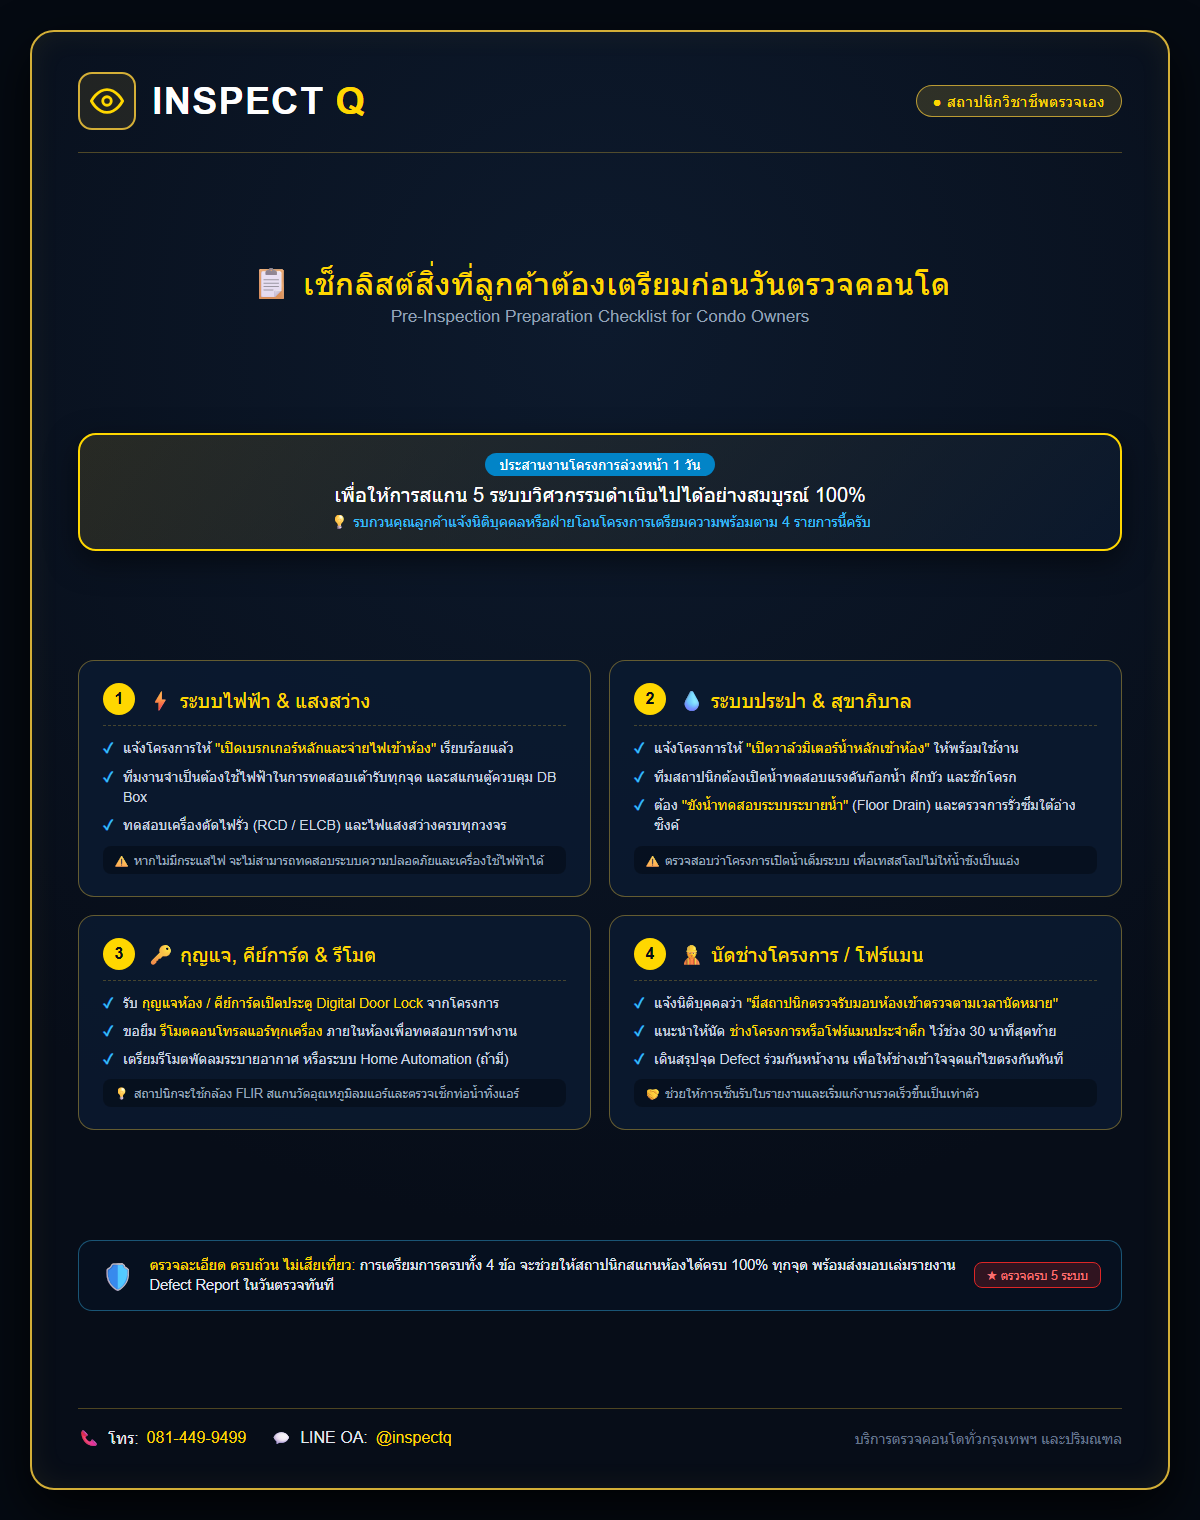
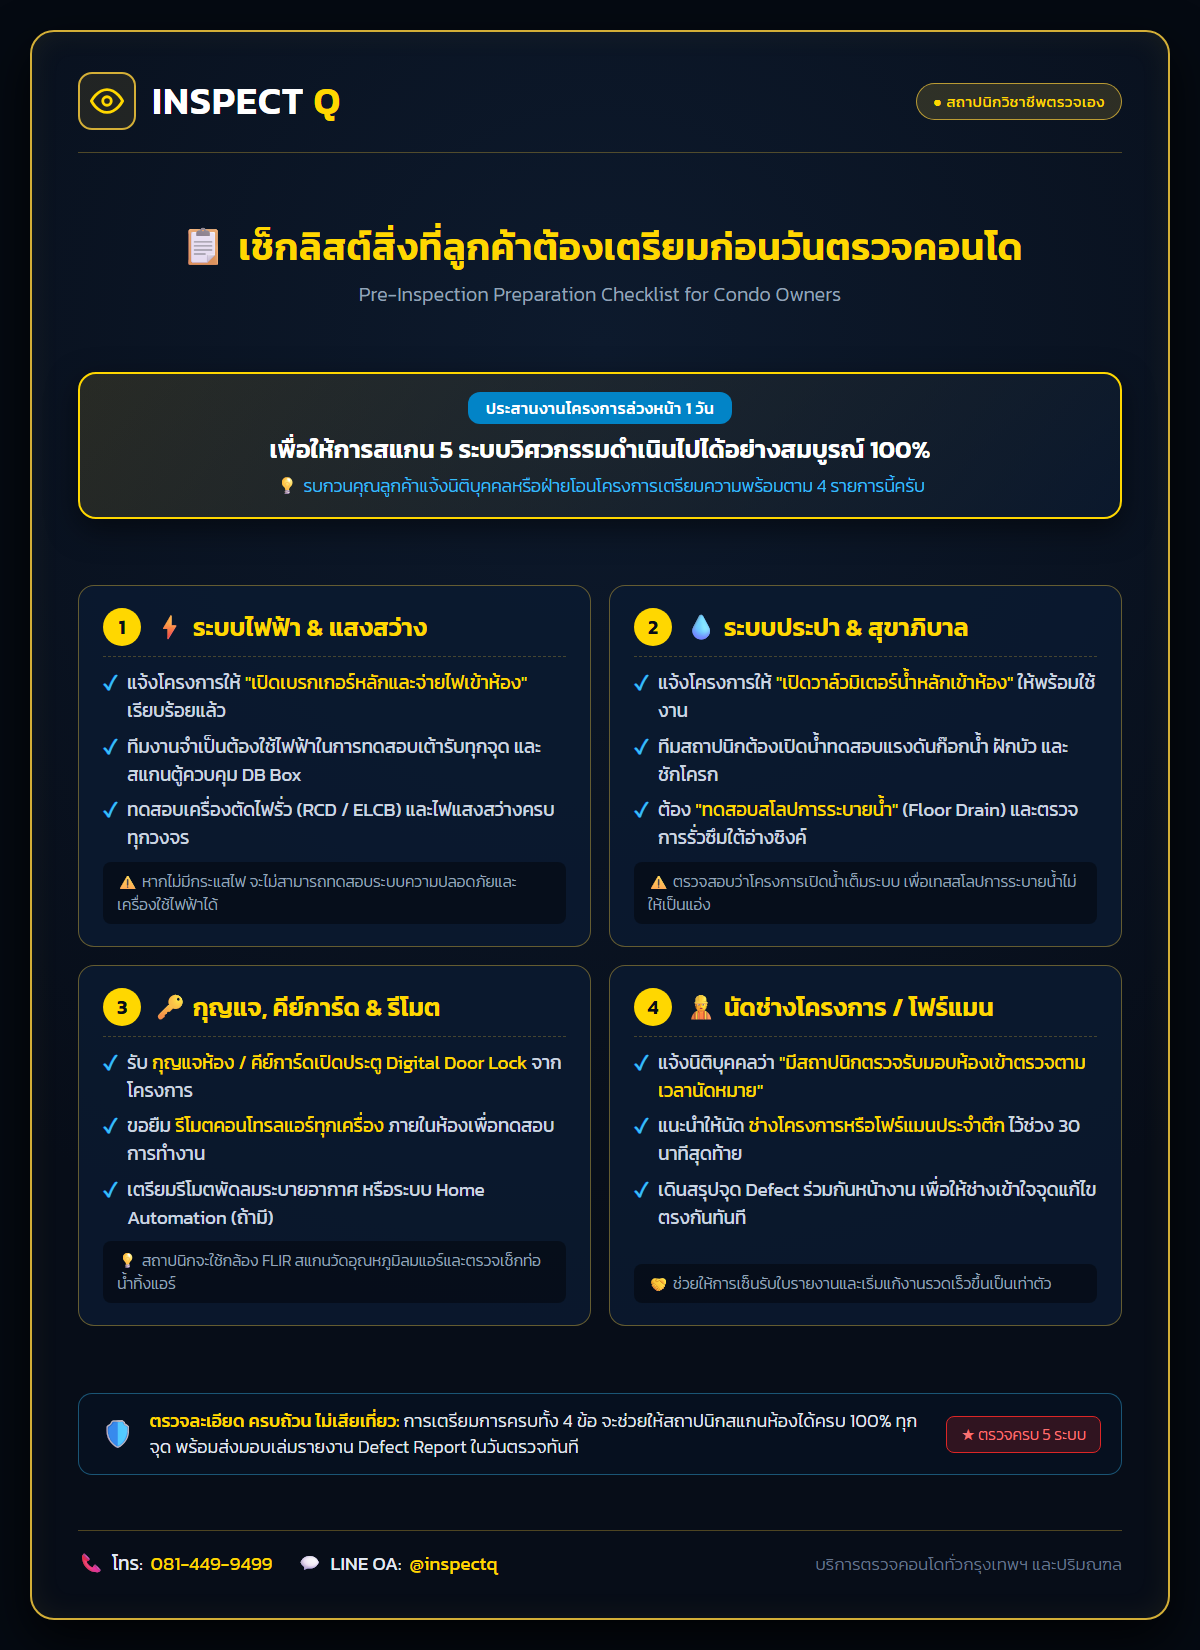
Card 06: remove word khang, increase font size to 18.5px for clear visibility

diff --git a/line.html b/line.html
@@ -376,7 +376,7 @@
 🔍 ตรวจครบ 5 ระบบ 6 โซน:
 • สถาปัตย์: พื้นยวบ/โก่ง, ผนังดิ่ง-ฉาก, ประตู-หน้าต่าง, กระเบื้อง
 • ไฟฟ้า: ตู้ DB, เบรกเกอร์ตัดไฟรั่ว (RCD), สายดินทุกปลั๊ก
-• ประปา: ขังน้ำเทสรั่วใต้ซิงค์, สโลปท่อระบายน้ำไม่ขัง
+• ประปา: เทสรั่วซึมใต้ซิงค์, สโลปท่อระบายน้ำไหลสะดวก
 • เครื่องมือ: เลเซอร์ 3D, สแกนชื้น, Socket Tester
 
 📄 ได้รับ: สรุปจุดด่วนในแชต + เล่มรายงาน PDF คมชัด
@@ -434,7 +434,7 @@
 รบกวนคุณลูกค้าประสานโครงการล่วงหน้า 1–2 วันครับ:
 
 ⚡ 1. ระบบไฟ: แจ้งโครงการเปิดเบรกเกอร์หลักและจ่ายไฟเข้าห้อง (เพื่อเทสปลั๊ก แอร์ แสงสว่าง และตู้ไฟ)
-💧 2. ระบบน้ำ: แจ้งโครงการเปิดมิเตอร์น้ำเข้าห้อง (เพื่อเทสแรงดัน สุขภัณฑ์ และขังน้ำเทสสโลป)
+💧 2. ระบบน้ำ: แจ้งโครงการเปิดมิเตอร์น้ำเข้าห้อง (เพื่อเทสแรงดัน สุขภัณฑ์ และเทสสโลปการระบายน้ำ)
 🔑 3. อุปกรณ์: ขอกุญแจห้อง, คีย์การ์ด, รีโมตแอร์ทุกตัว
 🏢 4. ช่างโครงการ: นัดช่างโครงการมาช่วง 30 นาทีสุดท้าย เพื่อเดินสรุปจุด Defect ร่วมกัน
 
@@ -543,7 +543,7 @@ https://seemee1234-dev.github.io/seemeinspect/landing.html
 
 1. 🏗 สถาปัตย์: พื้นยวบ/โก่ง, ผนังดิ่ง-ฉาก, ประตู-หน้าต่าง, เคาะกระเบื้อง
 2. ⚡ ไฟฟ้า: ตู้ DB Box, เบรกเกอร์ตัดไฟรั่ว (RCD), ขั้วสายดินเต้ารับ 100%
-3. 🚿 สุขาภิบาล: สโลปเดรนน้ำไม่ขัง, ขังน้ำเทสรั่วใต้ซิงค์, กลิ่นย้อน
+3. 🚿 สุขาภิบาล: สโลปเดรนน้ำไหลสะดวก, เทสรั่วซึมใต้ซิงค์, กลิ่นย้อน
 4. ❄ แอร์: วัดความเย็น, ท่อน้ำทิ้งแอร์ไม่ตัน, พัดลมดูดอากาศ
 5. 🌧 ป้องกันรั่วซึม: ยาง EPDM ขอบบาน, เครื่อง Moisture Meter สแกนชื้น
 
